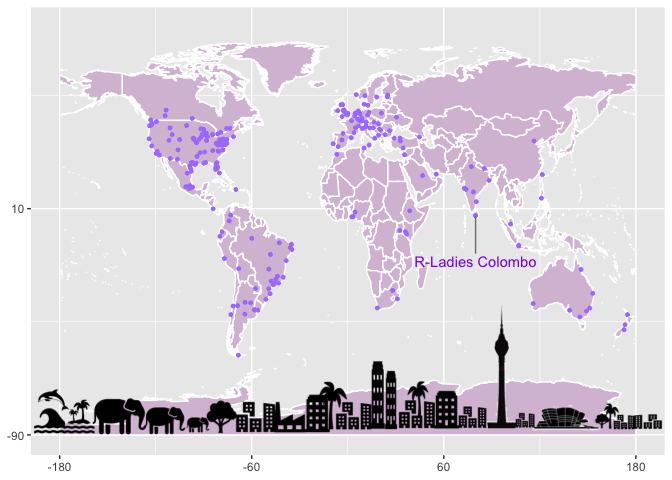
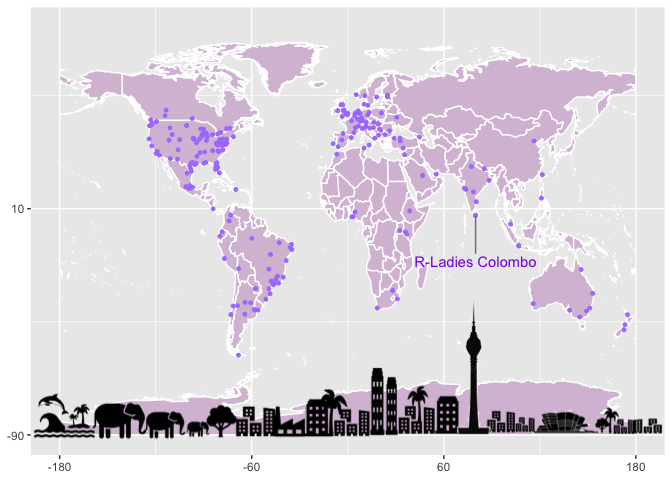
update cover image

Changed region(s): [[0.0312, 0.6562, 1.0, 0.9375]]

diff --git a/README.md b/README.md
@@ -78,10 +78,21 @@ ggsave(here::here("R-ladiesmap.png"), width = 15, height = 7)
 pic <- readPNG("colombocity.png")
 g <- rasterGrob(pic, interpolate=TRUE)
 
-p + annotation_custom(g, xmin = -Inf, xmax = Inf, ymin = -225, ymax = Inf) +
+q <- p + annotation_custom(g, xmin = -Inf, xmax = Inf, ymin = -225, ymax = Inf) +
   geom_point()
+q
 ```
 
 ![](README_files/figure-markdown_github/addcolombocity-1.png)
+
+``` r
+code <- paste("R_Ladies_Global %>% filter(Chapter == ``Colombo``, Country == ``Sri Lanka``)"  )
+
+r <- q + annotate(geom="text", x=-20, y=88, label= code,
+              color="black")
+r
+```
+
+![](README_files/figure-markdown_github/addcode-1.png)
 
 Last updated: `2019-12-13`
